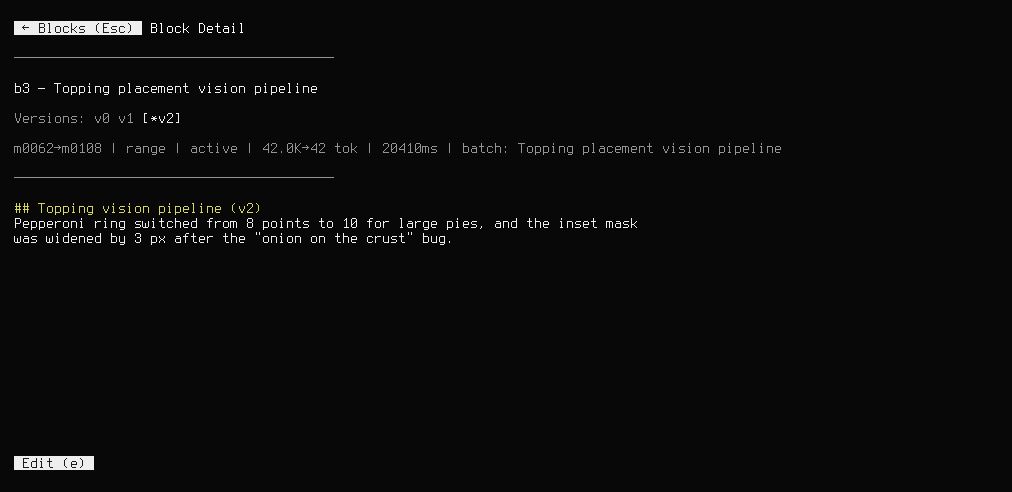
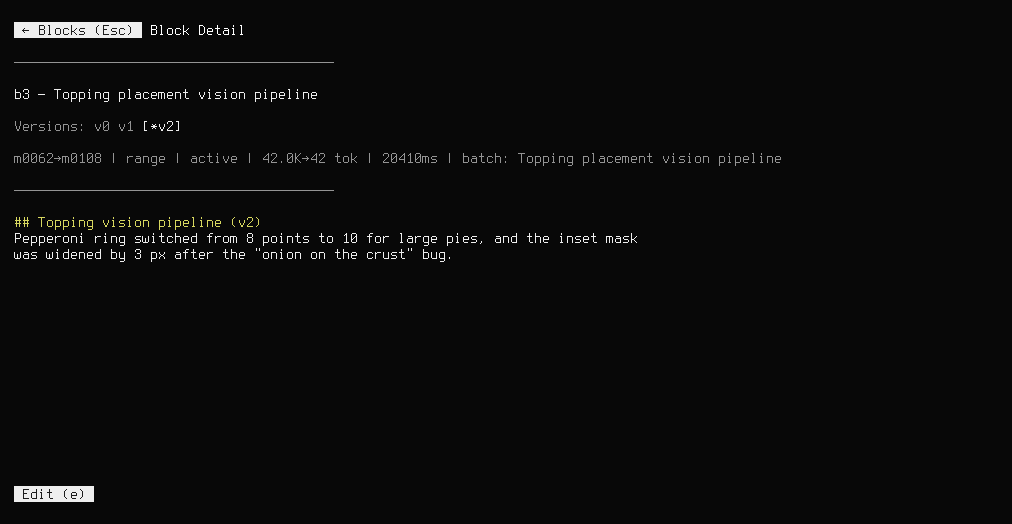
fix screenshot glitch

diff --git a/scripts/tui-pty-driver.py b/scripts/tui-pty-driver.py
@@ -27,11 +27,10 @@ import time
 
 TERMINATE = b"\x03\x03"
 
-# Screen-to-PNG metrics. CHAR_W_PX is the advance of Terminus (TTF) at
-# FONT_SIZE_PX (0.571 em); keep the chromium viewport exactly this size so the
-# screenshot has no empty margin to the right.
-FONT_SIZE_PX = 14
-LINE_H_PX = 15
+# Screen-to-PNG metrics. Terminus uses an 8x16 cell at FONT_SIZE_PX; keep the
+# chromium viewport exactly this size so the screenshot has no empty margin.
+FONT_SIZE_PX = 16
+LINE_H_PX = 16
 CHAR_W_PX = 8.0
 SCREEN_PAD_PX = 6
 
